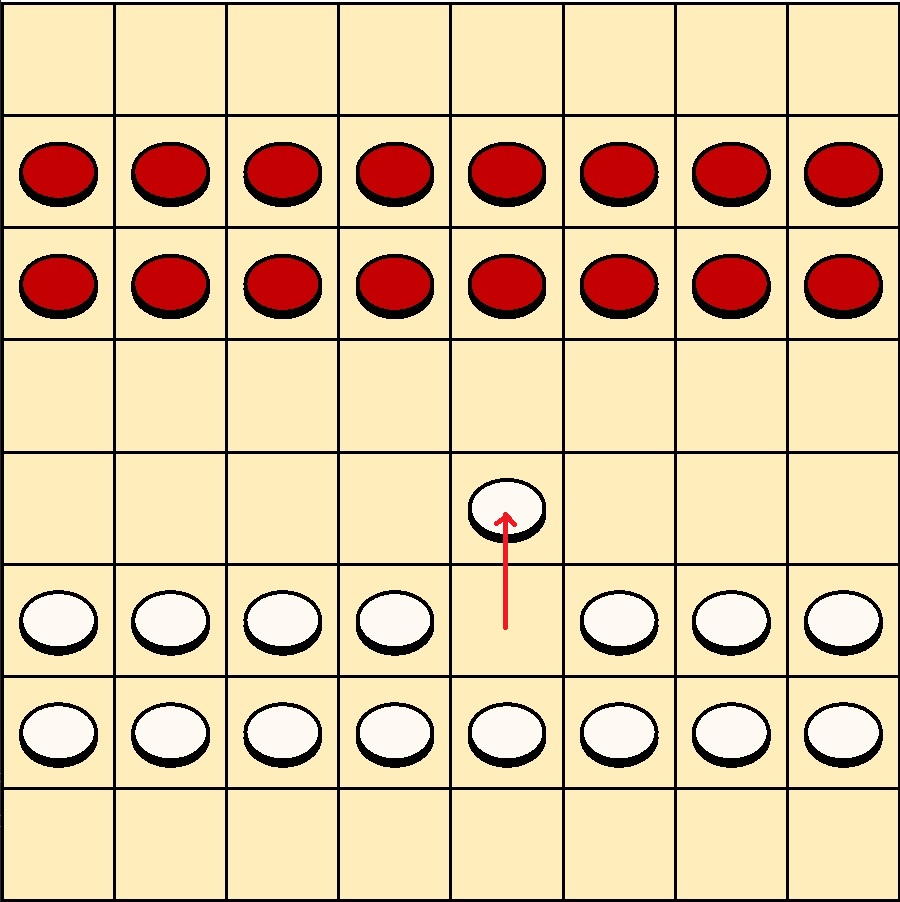
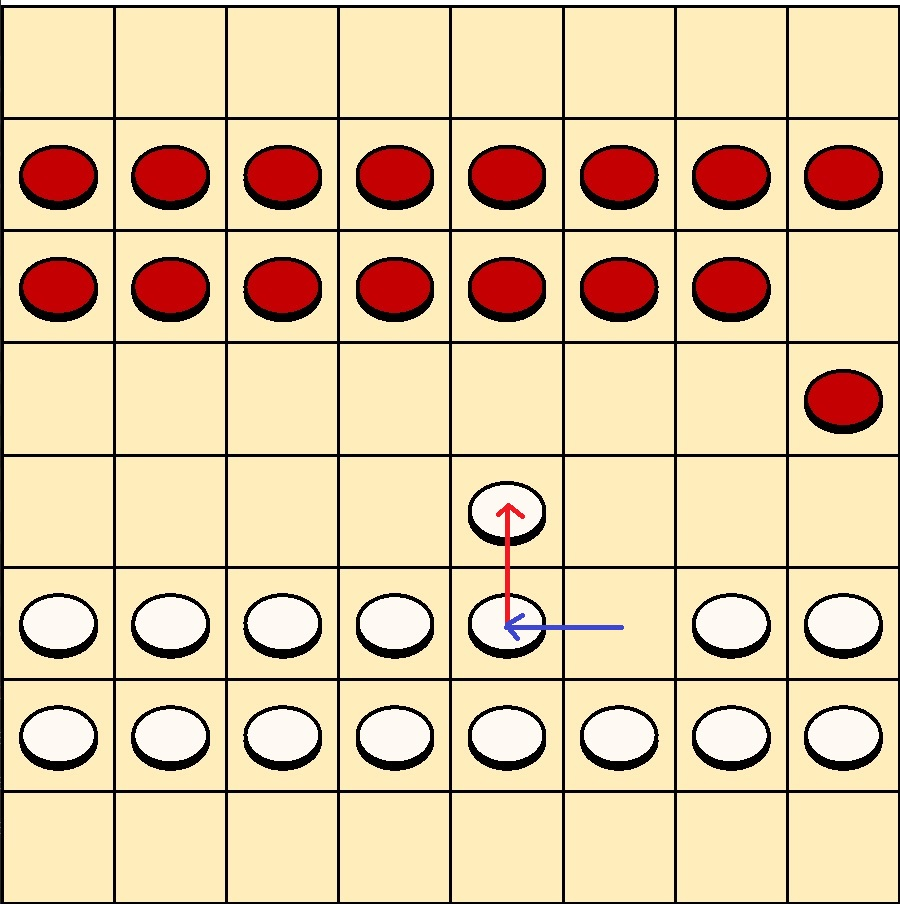
Cleared up diagram for transpos table

diff --git a/README.md b/README.md
@@ -55,10 +55,8 @@ Alpha beta pruning works by not exploring moves of a board when a result has bee
 
 Transposition tables store all previously explored boards and their values. Since there are multiple ways to reach the same board by refrencing the transposition table instead of re-evaluating that board many branches of the tree don't need to be re-evaluated.
 
-Starting Moves | Identical Transposition
+![](docs/transpos2.jpg) | ![](docs/transpos4.jpg)
 :-: | :-:
-![](docs/transpos1.jpg) | ![](docs/transpos2.jpg)
-![](docs/transpos3.jpg) | ![](docs/transpos4.jpg)
 
 The downside with this approach is simply there are more than 2^64 possible board configurations which means there are more board configurations than the size of addressable memory. As a result if you try to store every explored board you eventually run out of memory, so you have to introduce a hashing function that is intentionally causing collisions, or only store computationally expensive moves ie those above a certain depth. Either way this approach trades memory for computation time, and even with its limitations still provides a substancial performance increase. 
 
